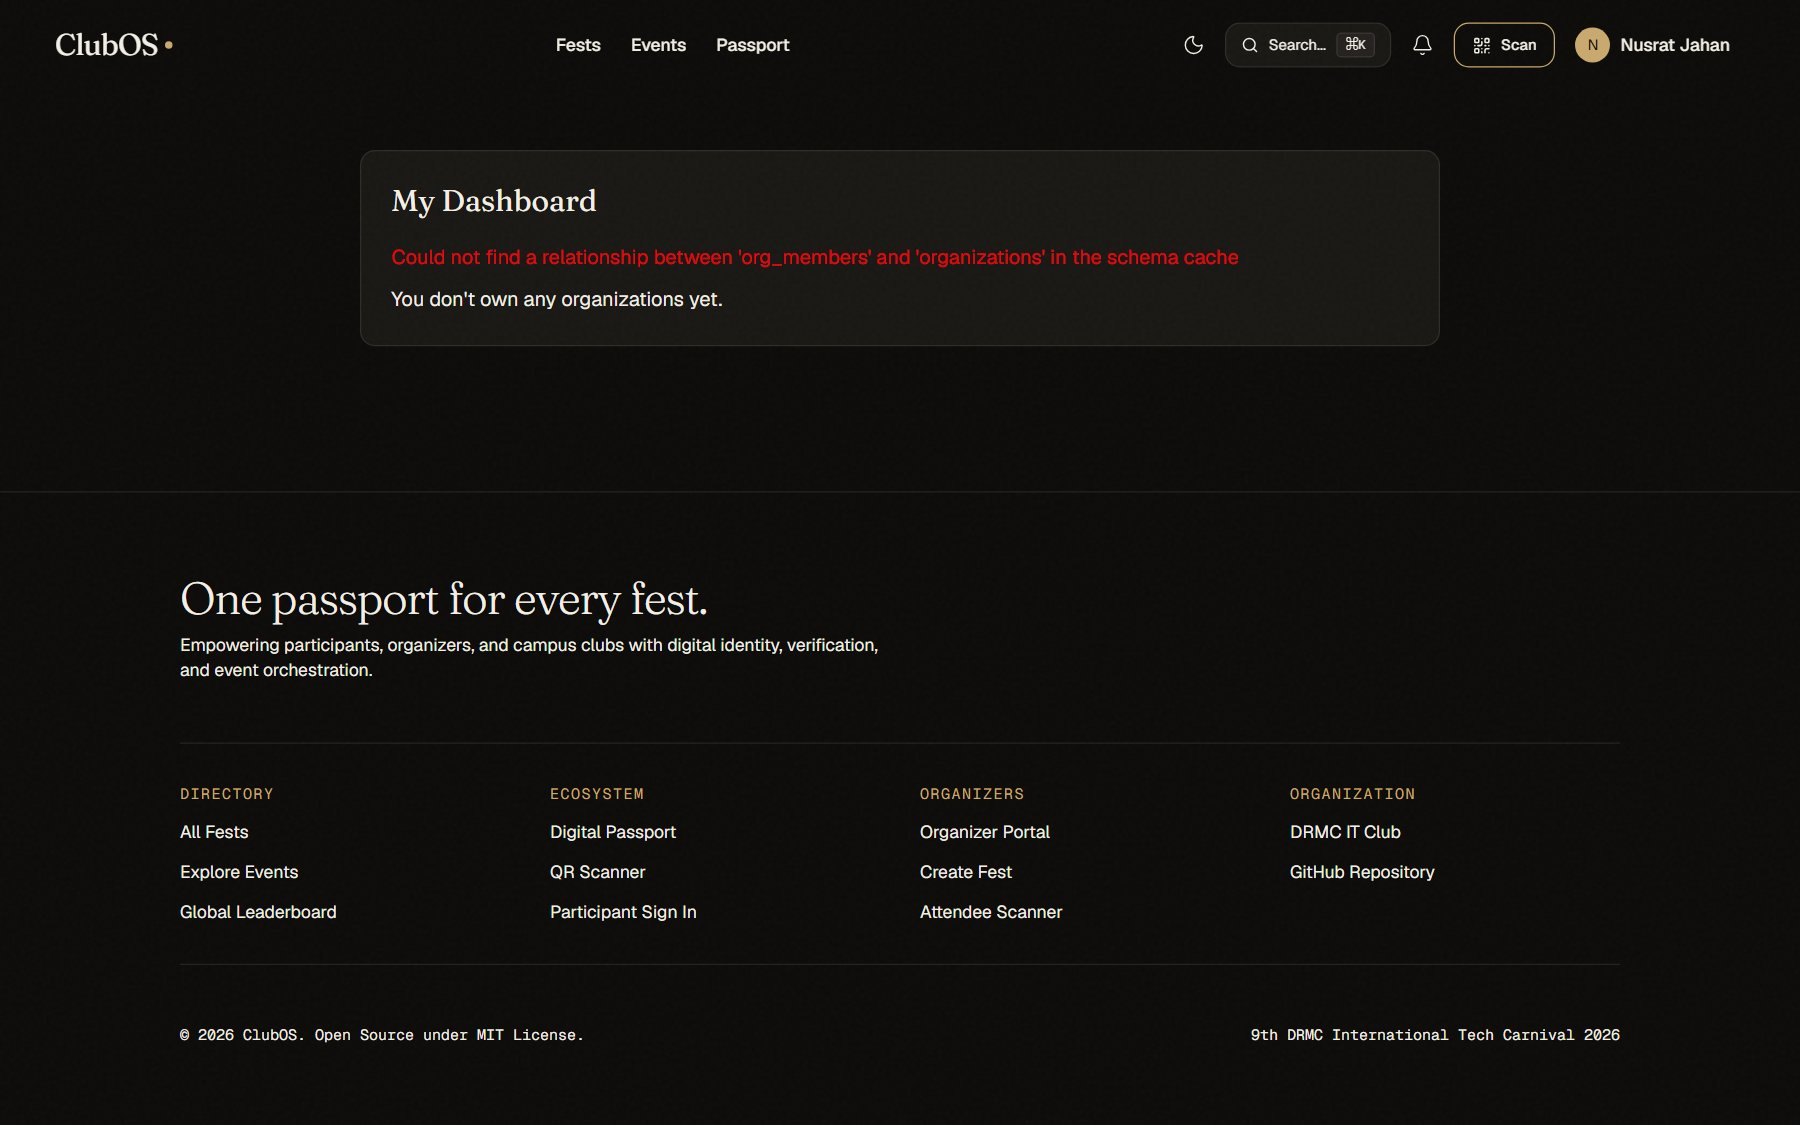
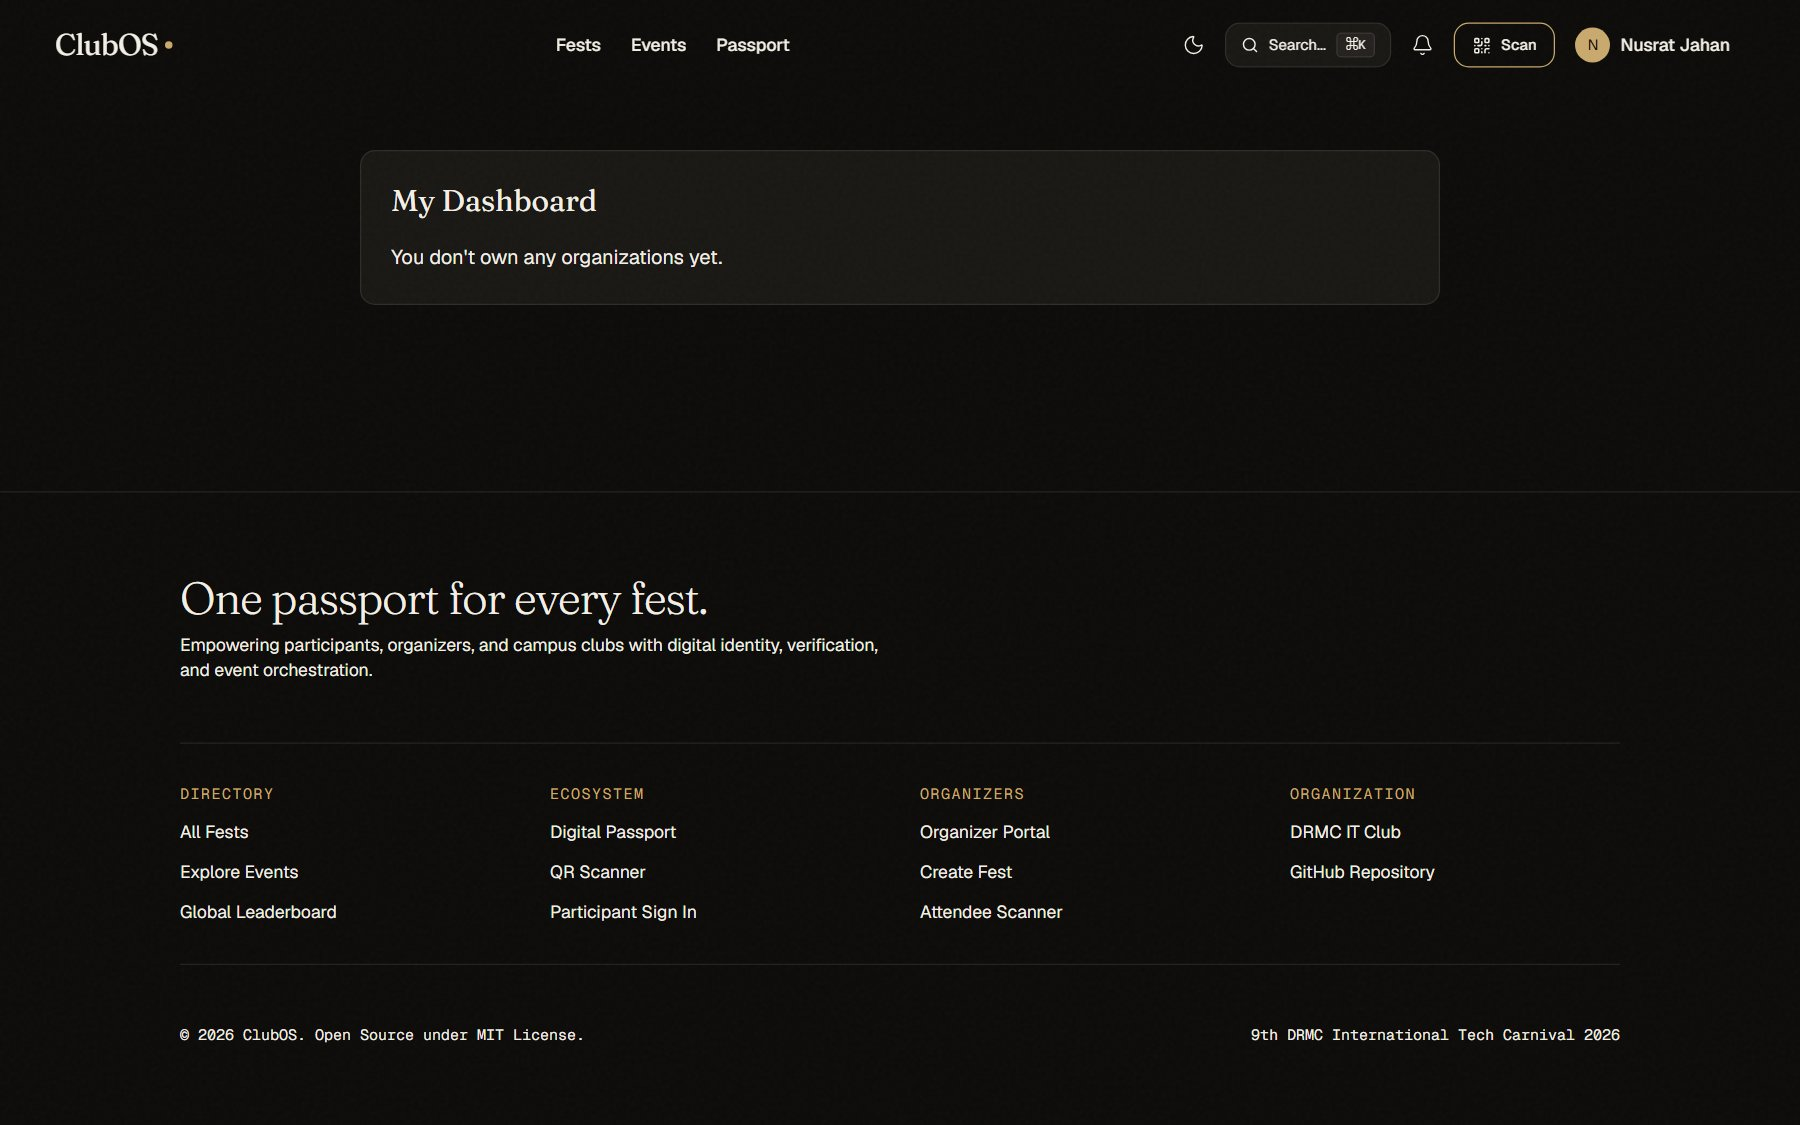
fix: dashboard queried nonexistent org_members table
The org lookup used from('org_members'), which has no FK to
organizations, so PostgREST rejected the embed with "could not find a
relationship". Query organization_members (the real table) and accept
owner/admin/organizer roles. Refreshed the dashboard screenshot.

🤖 Generated with Codebuff

Changed region(s): [[0.2178, 0.2178, 0.6844, 0.28]]

diff --git a/site/src/app/dashboard/page.tsx b/site/src/app/dashboard/page.tsx
@@ -32,12 +32,14 @@ export default function DashboardPage() {
         router.push('/login');
         return;
       }
-      // Get organizations where user is an organizer (org_members.role = 'organizer')
+      // Get organizations where the user has any membership role. The table is
+      // `organization_members` (the `org_members` name has no FK to
+      // `organizations`, which made PostgREST reject the embed).
       const { data, error } = await supabase
-        .from('org_members')
+        .from('organization_members')
         .select('organizations(id, name, slug)')
         .eq('user_id', user.id)
-        .eq('role', 'organizer');
+        .in('role', ['owner', 'admin', 'organizer']);
       if (error) {
         setError(error.message);
         return;
